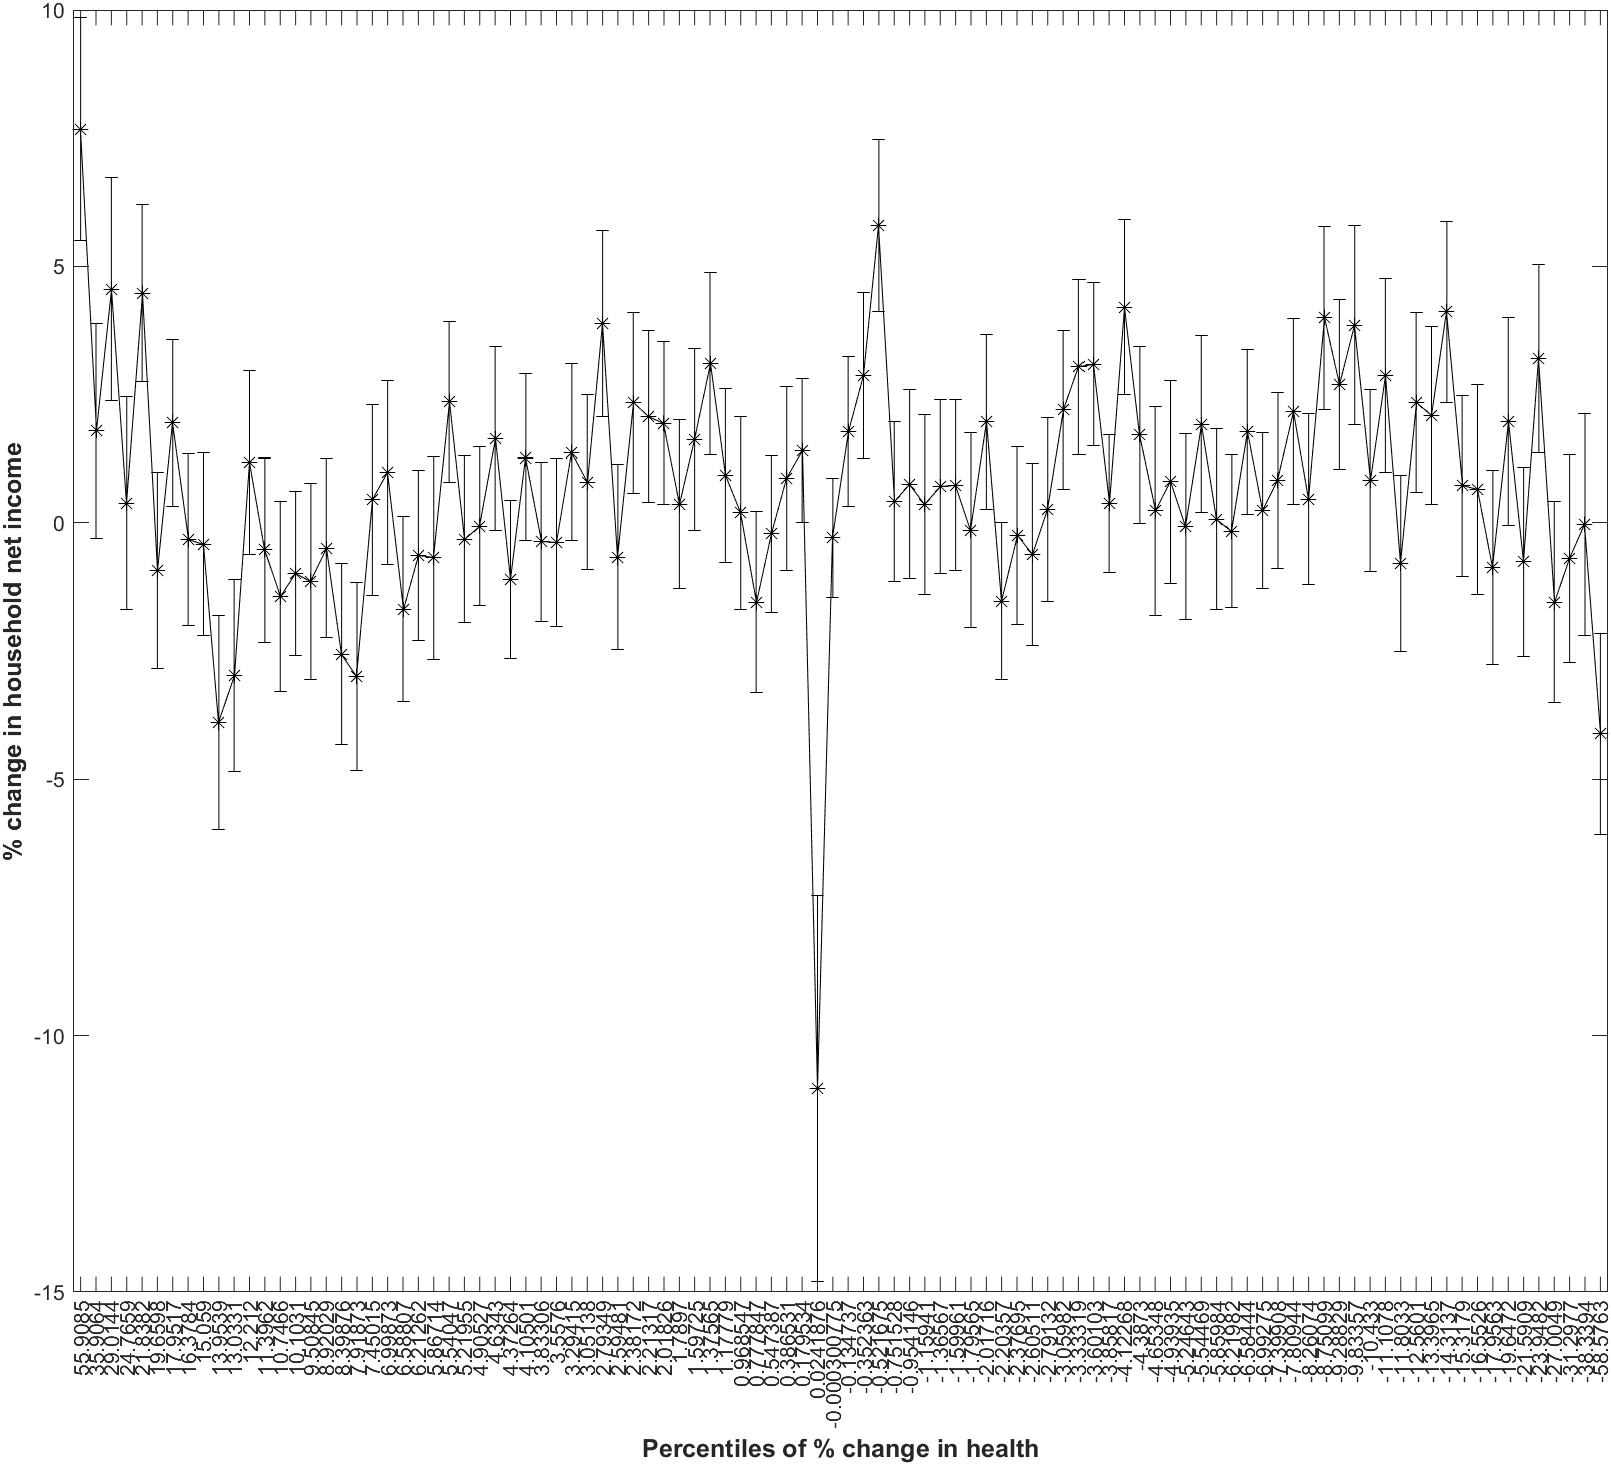
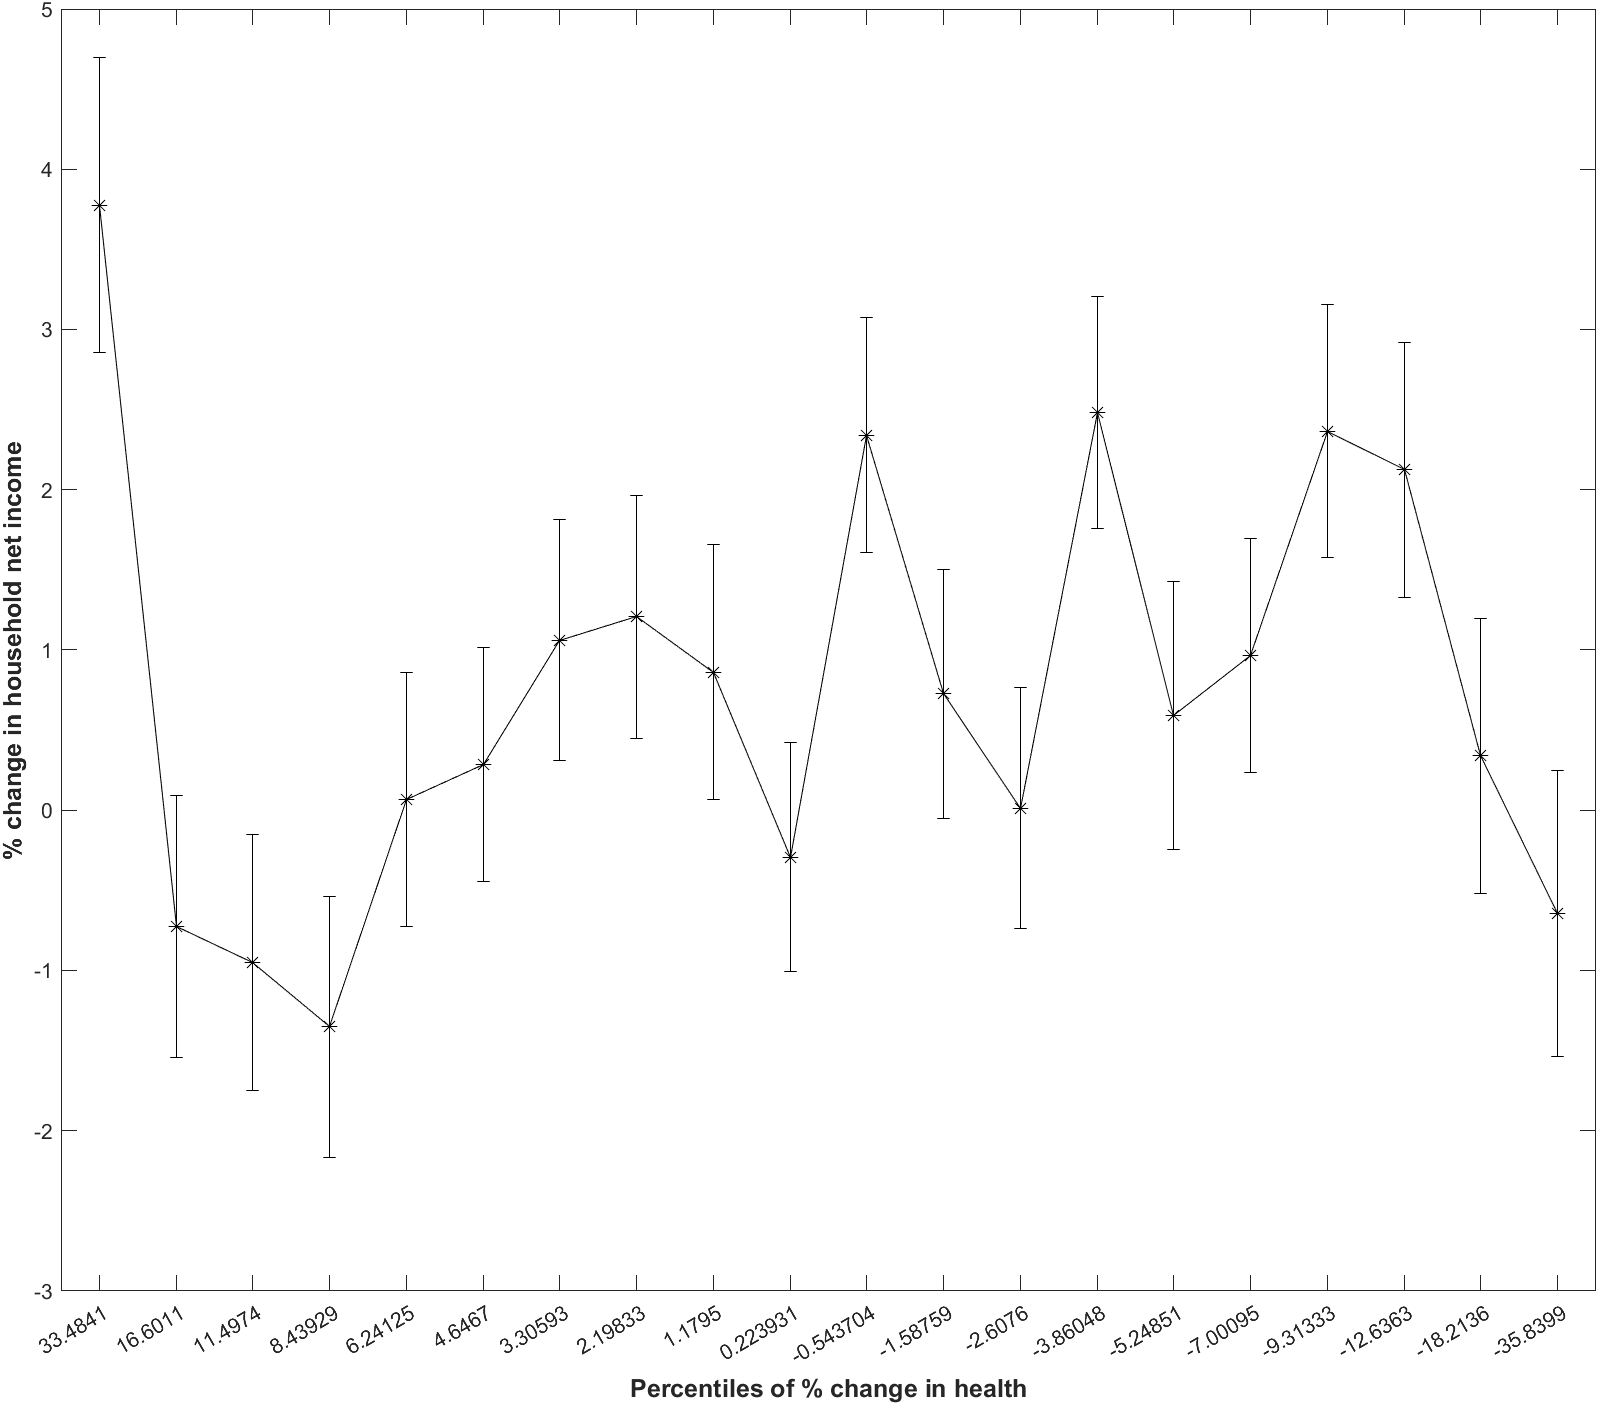
update

diff --git a/Model Analysis/Figures/Health_Income_Graphic.m b/Model Analysis/Figures/Health_Income_Graphic.m
@@ -11,6 +11,10 @@ Health_Impact_Income_Pctile_dh=table2array(readtable('../../Data Preparation & A
 Health_Impact_Income_Pctile_dh =flip([Health_Impact_Income_Pctile_dh]);
 Health_Impact_Income_Decile_dh=table2array(readtable('../../Data Preparation & Analysis/Outputs/HealthIncomeHistogramm.xlsx', 'Sheet','Deciles XAxis'));
 Health_Impact_Income_Decile_dh =flip([Health_Impact_Income_Decile_dh]);
+Health_Impact_Income_Quintile=table2array(readtable('../../Data Preparation & Analysis/Outputs/HealthIncomeHistogramm.xlsx', 'Sheet','Quintiles'));
+Health_Impact_Income_Quintile =flip([Health_Impact_Income_Quintile]);
+Health_Impact_Income_Quintile_dh=table2array(readtable('../../Data Preparation & Analysis/Outputs/HealthIncomeHistogramm.xlsx', 'Sheet','Quintiles XAxis'));
+Health_Impact_Income_Quintile_dh =flip([Health_Impact_Income_Quintile_dh]);
 
 figure(1)
 errorbar(Health_Impact_Income_Decile(:,1),Health_Impact_Income_Decile(:,2),'*', 'MarkerSize',7.5, 'Color', 'black')
@@ -41,6 +45,23 @@ ylabel('% change in household net income','FontSize',12,'FontWeight','bold')
 
 set (figure(2), 'Units', 'normalized', 'Position', [0.16,0,0.66,1]);
 h = figure(2);
+set(h,'Units','Inches');
+pos = get(h,'Position');
+set(h,'PaperPositionMode','Auto','PaperUnits','Inches','PaperSize',[pos(3), pos(4)])
+exportgraphics(h,'..\Outputs\Fig_1_temp2.png','BackgroundColor','none')
+
+
+figure(3)
+errorbar(Health_Impact_Income_Quintile(:,1),Health_Impact_Income_Quintile(:,2),'-*', 'MarkerSize',7.5, 'Color', 'black')
+xlim([0.5,20.5])
+xticks(1:20)
+xticklabels((Health_Impact_Income_Quintile_dh(:,1)'))
+xlabel('Percentiles of % change in health','FontSize',12,'FontWeight','bold')
+ylabel('% change in household net income','FontSize',12,'FontWeight','bold')
+
+
+set (figure(3), 'Units', 'normalized', 'Position', [0.16,0,0.66,1]);
+h = figure(3);
 set(h,'Units','Inches');
 pos = get(h,'Position');
 set(h,'PaperPositionMode','Auto','PaperUnits','Inches','PaperSize',[pos(3), pos(4)])
